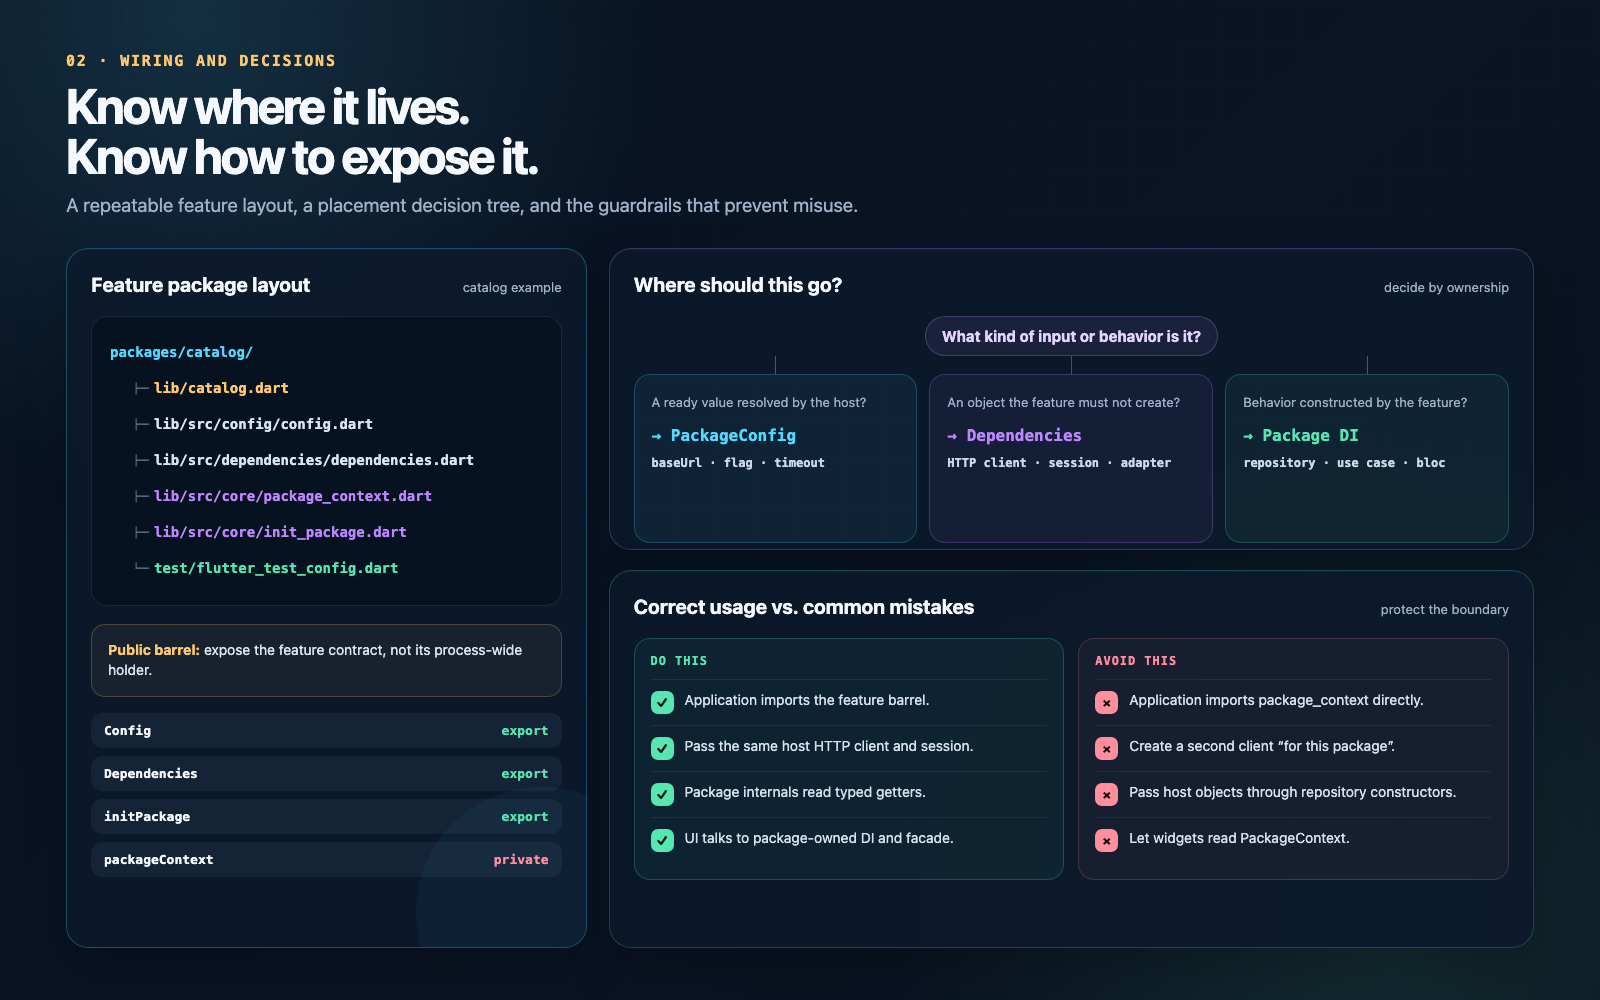
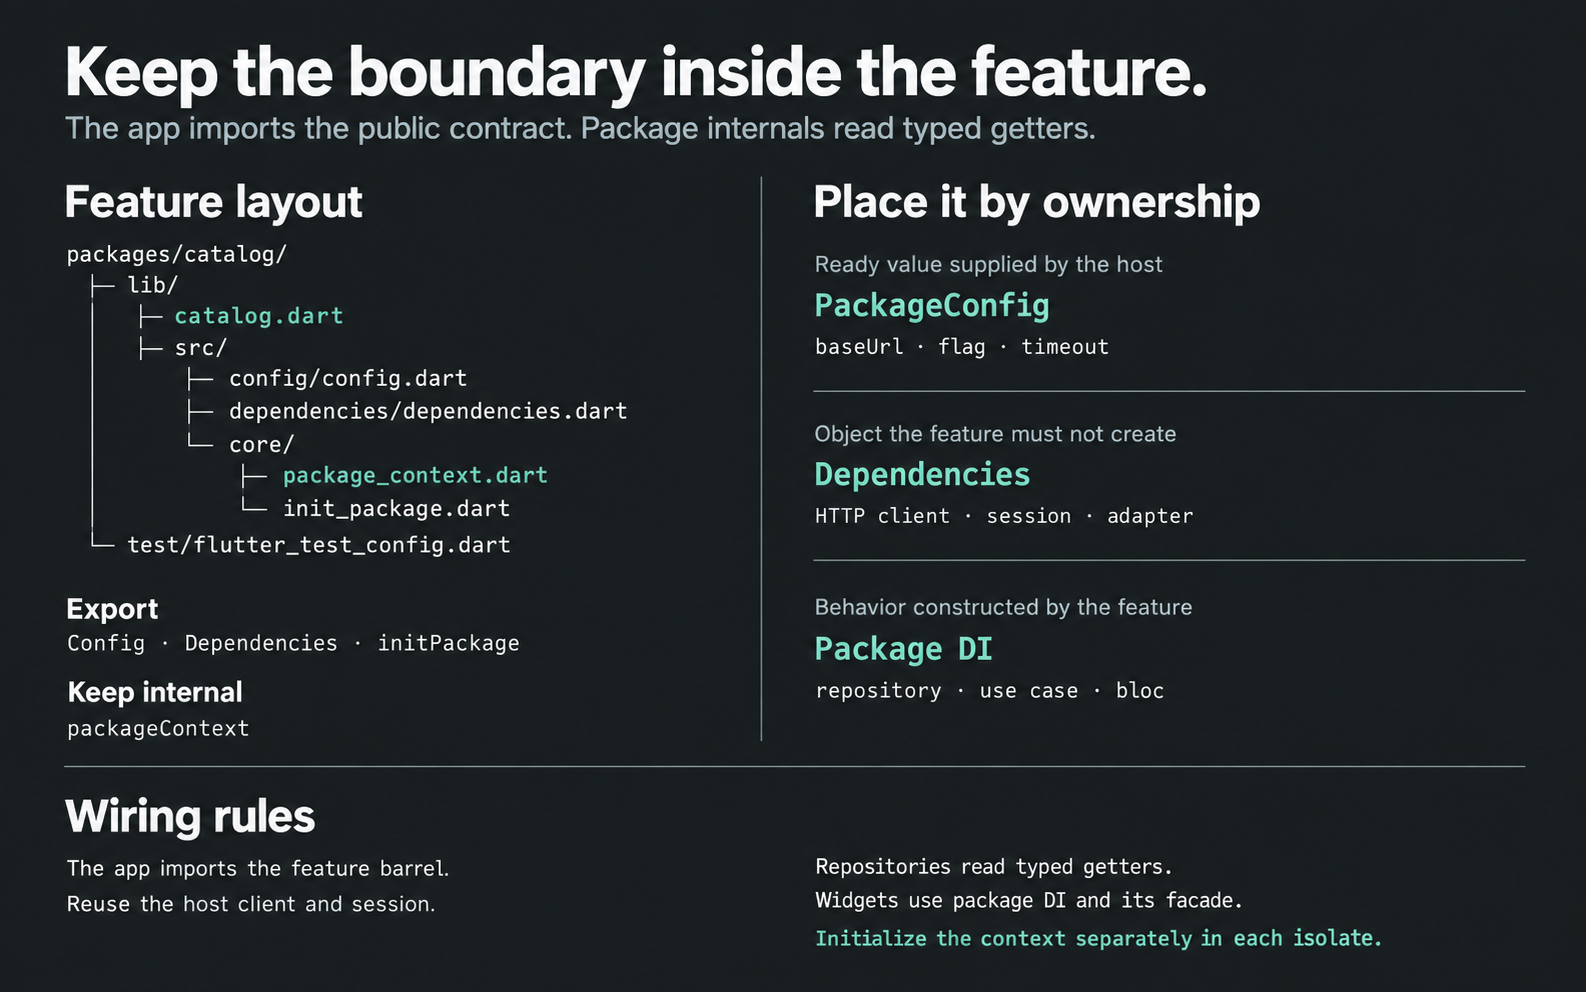
docs: clarify initialization lifecycle and redesign diagrams

diff --git a/README.md b/README.md
@@ -16,7 +16,11 @@ repositories, use cases, and blocs in the package's own container.
 | `PackageDependencies` | Objects the package must not create | HTTP client, session, adapters |
 | `PackageGraph` | Config and dependencies together | The only valid initialized state |
 
-One package — one `PackageContext`. It lives as long as the process.
+Keep one `PackageContext` per feature package in each isolate. New isolates
+have separate global state and must initialize their own context.
+
+An assigned graph makes `config` and `dependencies` available. It does not
+mean package DI is ready: await `ensureInitialized` before using registered types.
 
 An empty `Config` is fine. The instance is still required.
 
@@ -26,7 +30,7 @@ Add the dependency to the **feature package**, not to the app:
 
 ```yaml
 dependencies:
-  package_context: ^2.0.0
+  package_context: ^2.1.0
 ```
 
 In a monorepo:
@@ -39,7 +43,9 @@ dependencies:
 
 ## Wire a feature package
 
-The samples use a fictional `catalog` package.
+The samples use a fictional `catalog` package. The complete
+[runnable example](example/package_context_example.dart) demonstrates the same
+config, dependencies, getters, and bootstrap with an in-memory host.
 
 ![Feature layout, placement decision tree, and package wiring guardrails](assets/boundaries.png)
 
@@ -123,7 +129,7 @@ final class Dependencies extends package_context.PackageDependencies {
 
 ### Context
 
-One singleton. Typed getters. Internal code imports the getters, not
+One context per isolate. Typed getters. Internal code imports the getters, not
 `package_context`.
 
 ```dart
@@ -140,10 +146,14 @@ Dependencies get dependencies => packageContext.dependencies;
 
 Call it after the host can build every `Dependencies` field.
 
-- Already initialized and package DI is alive → return.
-- Holder is alive, package DI was reset (same process, `main()` ran again) →
-  `refresh`, then register again.
-- First start → `initialize`, then register.
+When no binding operation is pending:
+
+| Context | `isBound` | Action |
+|---|---|---|
+| Empty | `false` | Set the graph, then bind |
+| Empty | `true` | Set the graph without binding |
+| Initialized | `false` | Replace the graph, then bind |
+| Initialized | `true` | Keep the previous graph without binding |
 
 Do not call `initialize` twice. Use `refresh` or `ensureInitialized`.
 
@@ -163,10 +173,28 @@ Future<void> initPackage({
 }
 ```
 
-`configureDependencies` registers package-owned types. If the host already
-registered the same type, check `isRegistered` first.
+`configureDependencies` registers package-owned types and can return `void` or
+`Future<void>`. The registration check must become `true` only when all package
+registration has completed. A partially registered facade is not sufficient.
 
-![Application startup, ensureInitialized lifecycle, and package test setup](assets/lifecycle.png)
+While binding is pending, external calls with identical `config` and
+`dependencies` objects receive the same `Future`. A new `PackageGraph` wrapper
+is allowed; the objects themselves are compared by identity, not equality.
+Only the first callback runs, even if a later caller supplies `isBound: true`.
+
+A different graph or reentry from the pending operation's own `bind` returns a
+failed `Future` with `PackageContextInitializationInProgress`. Reentry is rejected
+both before and after `await`, so binding cannot wait on its own completion.
+During binding, `refresh` and `reset` throw the same error synchronously.
+`initialize` still throws `PackageContextAlreadyInitialized`.
+
+The graph is available throughout binding. If binding fails, the graph stays
+assigned and the original error and stack trace reach callers. The library does
+not roll back the host container or retry automatically. The host must clear
+partial registrations, then explicitly retry with `isBound: false`. Await the
+result before reading package-owned registrations.
+
+![Startup, four initialization states, concurrent binding, failure recovery, and tests](assets/lifecycle.png)
 
 ### Data layer
 
@@ -238,49 +266,45 @@ class AppSession implements catalog.Session {
 
 ## Tests
 
-Seed the holder before the suite.
+Assign fresh host objects in `setUp` and call `packageContext.reset()` in
+`tearDown`. Await pending binding before teardown. Each isolate needs its own
+initialization.
 
-```dart
-Future<void> testExecutable(FutureOr<void> Function() testMain) async {
-  if (!packageContext.isInitialized) {
-    packageContext.initialize(
-      package_context.PackageGraph(
-        config: const Config(
-          baseUrl: Uri.parse('https://example.test'),
-          isEnabled: true,
-        ),
-        dependencies: Dependencies(
-          apiClient: FakeApiClient(),
-          session: const FakeSession(
-            userId: 'user-1',
-          ),
-        ),
-      ),
-    );
-  }
-
-  await testMain();
-}
-```
-
-If a test breaks the graph, call `packageContext.reset()` in `tearDown`.
-Otherwise keep one graph for the suite.
+[Test bootstrap](example/test_bootstrap.dart) contains the compiled setup with
+an in-memory client and session. [Bootstrap tests](test/test_bootstrap_test.dart)
+show the `setUp`/`tearDown` wiring and verify repository reads and fresh objects
+after reset. `Uri.parse` runs at runtime, so the containing `Config` invocation
+is not `const`.
 
 ## Contract
 
 | API | Behavior |
 |---|---|
-| `isInitialized` | `true` only when a `PackageGraph` is set |
+| `isInitialized` | `true` when a `PackageGraph` is set; does not report DI readiness |
 | getters | `PackageContextNotInitialized` if empty |
 | `initialize` | Assigns once. `PackageContextAlreadyInitialized` if already set |
-| `refresh` | Replaces the graph in place |
-| `ensureInitialized` | No-op, refresh, or initialize, then bind |
-| `reset()` | Tests only. Clears the graph |
+| `refresh` | Sets or replaces the graph; throws while binding is pending |
+| `ensureInitialized` | Applies the four-state table; shares pending binding for identical host objects |
+| `reset()` | Tests only. Clears the graph; throws while binding is pending |
+
+Pending mutations and conflicting or reentrant initialization use
+`PackageContextInitializationInProgress`. A binding error leaves the graph
+assigned and permits explicit retry after host cleanup.
+
+## Development
+
+The supported Dart SDK range remains `>=3.13.2 <4.0.0`.
+[CI](.github/workflows/ci.yml) checks both Dart 3.13.2 and the stable channel on
+pull requests to `main` and pushes to `main`.
+
+Run `make check` to resolve dependencies, check formatting without rewriting
+source files, analyze, test, and run the main example. `make format` applies
+formatting changes explicitly.
 
 ## Rules
 
 1. The feature package depends on `package_context`. The app does not.
-2. One `packageContext` per package.
+2. One `packageContext` per package in each isolate.
 3. Config holds values. Dependencies hold host objects. Both travel as `PackageGraph`.
 4. The public barrel exports `Config`, `Dependencies`, `initPackage`.
 5. Data and domain read getters. UI does not.
